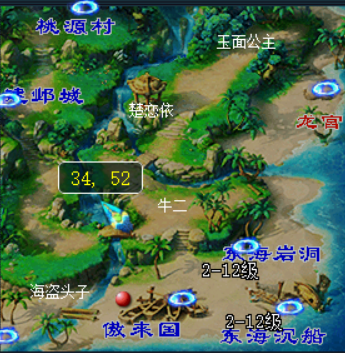
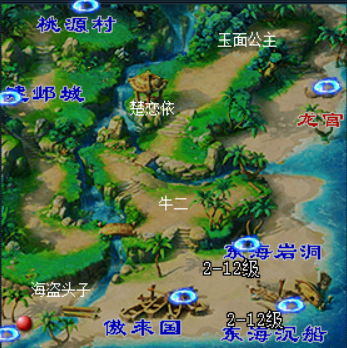
提交

diff --git a/myaux/command/Base.py b/myaux/command/Base.py
@@ -34,7 +34,7 @@ class myBase():
         currfiletpath = Path(os.path.abspath(__file__))
         self.currtpath=currfiletpath.parent
         self.mous=PyMouse()
-        self.ditu_size={"jianye":(287,142),"donghaiwan":(117,117)}
+        self.ditu_size={"jianye":(287,142),"donghaiwan":(119,119),"changancheng":(548,277),"jiangnanyewai":(159,119)}
         self.yunbiao_par=["牛魔王","观音姐姐","镇元大仙","孙婆婆","地藏王"]
         self.padocr = PaddleOCR(use_angle_cls=True, lang="ch")
         # 调用百度的识别文字
@@ -90,13 +90,15 @@ class myBase():
         pyautogui.press("F9")
         pyautogui.hotkey("alt", "h")
         time.sleep(1)
-    def get_pic_centerforaytogui(self,picfile,confidence=0.6):
+    def get_pic_centerforaytogui(self,picfile,confidence=0.7,is_npc=False):
         """
         根据基准图片获取操作对象位置
         :param picfile: 基准图片
         :param canel: 误差值
         :return: 对像坐标
         """
+        if is_npc:
+            self.clear_scene()
         picpath=self.get_pic_fullpath(picfile)
         grids=pyautogui.locateCenterOnScreen(picpath,confidence=confidence,region=self.parent_size,grayscale=True)
         return grids
@@ -108,59 +110,55 @@ class myBase():
         :return: 对像box
         """
         picpath=self.get_pic_fullpath(picfile)
+        print(picfile,picpath)
         bbox=pyautogui.locateOnScreen(picpath,confidence=confidence,region=self.parent_size,grayscale=True)
         return bbox
-    def get_allpic(self,picfile,confidence=0.6):
+    def get_allpic(self,picfile,confidence=0.6,index=None):
         """
         查找所有相似图片，返回bbox
         """
         picpath = self.get_pic_fullpath(picfile)
-        btm=pyautogui.locateAllOnScreen(picpath,confidence=confidence)
+        btm=pyautogui.locateAllOnScreen(picpath,confidence=confidence,region=self.parent_size,grayscale=True)
+        if index != None:
+            return list(btm)[index]
         return list(btm)
+    def get_interval(self,basic,length):
+        pt=length/3
+        end=basic+pt*2
+        start=basic
+        return range(int(start),int(end))
 
-    def dhclick(self,bbox,scenal=False,pfx=None):
-        gridx = self.get_num_center(bbox.left,bbox.left+bbox.width)
-        gridy = self.get_num_center(bbox.top,bbox.top+bbox.height)
+    def dhclick(self,grids,scenal=False):
+        gridx = grids.x
+        gridy = grids.y
         if scenal:
             if abs(self.dows_center[0] - gridx) < 100:
                 gridx = gridx + 100
             else:
                 gridx=self.get_num_center(gridx,self.dows_center[0])
             gridy = self.get_num_center(gridy, self.dows_center[1])
-        else:
-            gridx = random.choice(range(bbox.left,bbox.left+bbox.width))
-            gridy = random.choice(range(bbox.top,bbox.top+bbox.height))
-        if pfx == "left":
-            gridx-=10
-        elif pfx == "right":
-            gridx+=10
-        elif pfx == "top":
-            gridy -= 10
-        elif pfx == "bom":
-            gridy += 10
-        else:
-            gridx -= 5
-        print("scenal:%s %s ===>> (%s,%s)" % (scenal,bbox,gridx,gridy))
-        pyautogui.moveTo(gridx,gridy)
-        #print(gridx,gridy)
-        #self.mous.move(int(gridx),int(gridy))
+        pyautogui.moveTo(gridx-5,gridy-10)
         time.sleep(1)
         pyautogui.click()
-        #self.mous.click(int(gridx),int(gridy-8),1,1)
         time.sleep(1)
-    def getpic_click(self,picfile,checkfile=None,confidence=0.5,pfx=None):
+    def getpic_click(self,picfile,checkfile=None,confidence=0.7,is_npc=False,check_tag=True):
         if checkfile:
-            while not self.get_pic_centerforaytogui(checkfile):
-                self.clear_scene()
-                bbox=self.get_pic_bbox(picfile,confidence=confidence)
-                if bbox:
-                    self.dhclick(bbox,pfx=pfx)
-                if not self.get_pic_centerforaytogui(checkfile):
-                    self.dhclick(bbox,scenal=True, pfx=pfx)
-
+            if check_tag:
+                while not self.get_pic_centerforaytogui(checkfile):
+                    grids=self.get_pic_centerforaytogui(picfile,confidence=confidence,is_npc=is_npc)
+                    if grids:
+                        self.dhclick(grids)
+                        if not self.get_pic_centerforaytogui(checkfile):
+                            self.dhclick(grids,scenal=True)
+            else:
+                while self.get_pic_centerforaytogui(checkfile):
+                    grids = self.get_pic_centerforaytogui(picfile, confidence=confidence,is_npc=is_npc)
+                    if grids:
+                        self.dhclick(grids)
         else:
-            bbox=self.get_pic_bbox(picfile)
-            self.dhclick(bbox,pfx=pfx)
+            grids=self.get_pic_centerforaytogui(picfile,confidence=confidence,is_npc=is_npc)
+            if grids:
+                self.dhclick(grids)
     def calsimilar(self,imagef1,imagef2):
         """
         图片相似度对比
@@ -184,11 +182,7 @@ class myBase():
     # 百度OCR接口
     def get_pic_text(self,picfile):
         result=self.duqu_yemian(picfile)
-        return str(result)
-        #with open(picfile, 'rb') as fp:
-            #bimg = fp.read()
-            #msg = self.client.basicGeneral(bimg)
-            #return msg
+        return result
     # 获取当前声景
     def get_scene(self):
         tmpfilename=self.get_filename("scene")
@@ -196,10 +190,11 @@ class myBase():
         img=io.imread(tmpfilename,as_gray=False)
         print(img.shape)
         rows,cols,_= img.shape
-        new = img[rows // 15:rows // 7, 0:cols // 6]
+        new = img[rows // 15:rows // 6, 0:cols // 6]
         io.imsave(tmpfilename,new)
-        #io.show()
-        return self.get_pic_text(tmpfilename)
+        scene_text=self.duqu_yemian(tmpfilename)
+        print("当前场景信息：%s" % scene_text[-1])
+        return scene_text[-1]
     # 通过百度接品获取定位
     def get_pointpic_bybaidu(self):
         tmpfilename = self.get_filename("pointpic")
@@ -224,7 +219,7 @@ class myBase():
         if myfile.is_file():
             picpath=pocname
         else:
-            picdir=pocname.strip("123456789")+"pic"
+            picdir=pocname.strip("0123456789")+"pic"
             picpath=os.path.join(self.currtpath,"pic",picdir,pocname+".png")
         return picpath
     def get_pic_foraircv(self, picfile, confidence=0.6):
@@ -244,11 +239,17 @@ class myBase():
     def shear_pic(self,picfile):
         rec,snapshot_pic=self.get_pic_foraircv(picfile)
         bbox=rec[0]+rec[-1]
-        im1=Image.open(snapshot_pic)
+        return self.bbox_pic(bbox,snapshot_pic)
+    def bbox_pic(self,bbox,source_image=None):
+        if source_image == None:
+            source_image=self.get_snapshot()
+        #im_box=(bbox.left,bbox.top,bbox.left+bbox.width,bbox.top+bbox.height)
+        im1=Image.open(source_image)
         im2=im1.crop(bbox)
-        temfile=self.get_filename("renwutmp")
+        temfile = self.get_filename("renwutmp")
         im2.save(temfile)
         return temfile
+
     # 场景与PC的缩方比例
     def get_pixel_rate(self,sec,bbox):
         max_grid=self.ditu_size.get(sec)
@@ -278,14 +279,12 @@ class myBase():
         minix=bbox[0]
         maxy=bbox[-1]
         grids=(minix+int(x*xt),maxy-int(y*yt))
-        print(bbox)
-        print(grids)
         pyautogui.moveTo(grids)
-        time.sleep(2)
+        time.sleep(1)
         print(pyautogui.position())
-        #while not self.get_pic_centerforaircv("checkdt2.png",confidence=0.5):
-
         pyautogui.click()
+        time.sleep(1)
+        pyautogui.press("tab")
     # 使用物品
     def shiyongwupin(self,wupinpic):
         while not self.get_pic_centerforaytogui(wupinpic,confidence=0.8):

diff --git a/myaux/command/scene_yd.py b/myaux/command/scene_yd.py
@@ -1,0 +1,112 @@
+#coding=utf-8
+
+from .Base import *
+import pyautogui
+import os,time
+pyautogui.PAUSE=1
+
+class scene_yd(myBase):
+    def __init__(self,hwndkey):
+        super(scene_yd, self).__init__(hwndkey)
+        self.luxian_dic={
+            "changancheng_jiangnanyewai":{
+                "source_add":"长安城",
+                "target_add":"江南野外",
+                "pic_name":"changancheng",
+                "check_name":"changancheng1",
+                "yidongproint":[520,20],
+                "yidongfx":[300,300]
+            },
+            "jiangnanyewai_jianyecheng": {
+                "source_add": "江南野外",
+                "target_add": "建邺城",
+                "pic_name": "jiangnanyewai",
+                "check_name": "jiangnanyewai1",
+                "yidongproint": [137, 55],
+                "yidongfx": [300, 70]
+            },
+            "jianyecheng_donghaiwan": {
+                "source_add": "建邺城",
+                "target_add": "东海湾",
+                "pic_name": "jianye",
+                "check_name": "jianye1",
+                "yidongproint": [266, 30],
+                "dingdian_canzhao": True
+            },
+            "donghaiwan_aolaiguo": {
+                "source_add": "东海湾",
+                "target_add": "傲来国",
+                "pic_name": "donghaiwan",
+                "check_name": "donghaiwan1",
+                "yidongproint": [51, 20],
+                "is_yizhan": True
+            },
+        }
+    def changjingforyizhan(self,target_add):
+        print("进入驿站操作*******")
+        while target_add not in self.get_scene():
+            print("还没到目的地，继续努力")
+            while not self.get_pic_centerforaytogui("yizhan61", confidence=0.8):
+                print("没有找到驿站对话图片，开始点击传送人")
+                self.clear_scene()
+                for k in range(6):
+                    pic_name="yizhan%s" % k
+                    grids = self.get_pic_centerforaytogui(pic_name,confidence=0.8)
+                    if grids:
+                        print("%s找到传送人位置" % pic_name)
+                        self.dhclick(grids)
+                        if not self.get_pic_centerforaytogui("yizhan61", confidence=0.8):
+                            self.dhclick(grids,scenal=True)
+                        break
+                    else:
+                        print("没找到%s" % pic_name)
+            self.getpic_click("yizhan71",checkfile="yizhan61",confidence=0.9,check_tag=False)
+
+    def changjingfordingdian(self,target_add,check_name):
+        while target_add not in self.get_scene():
+            self.getpic_click(check_name)
+    def changjingforfx(self,target_add,proint):
+        px, py = proint
+        while target_add not in self.get_scene():
+            self.clear_scene()
+            self.yidongfx(px, py)
+            time.sleep(1)
+    def kuachengyundong(self,kuacheng_name):
+        kuacheng_dic=self.luxian_dic.get(kuacheng_name)
+        if not kuacheng_dic:
+            print("没有路线为%s的线跑，请核查.")
+            return
+        source_add=kuacheng_dic.get("source_add")
+        target_add = kuacheng_dic.get("target_add")
+        pic_name = kuacheng_dic.get("pic_name")
+        check_name = kuacheng_dic.get("check_name")
+        yidongproint = kuacheng_dic.get("yidongproint")
+        is_yizhan=kuacheng_dic.get("is_yizhan")
+        scene=self.get_scene()
+        if source_add not in scene:
+            print("当前场景不是%s" % source_add)
+            return
+        tag=scene.split(source_add)[-1]
+        while True:
+            new_tag=self.get_scene().split(source_add)[-1]
+            if new_tag == tag:
+                if not self.get_pic_centerforaytogui(check_name,is_npc=True):
+                    px,py=yidongproint
+                    self.positioning(pic_name, px, py)
+                else:
+                    break
+            else:
+                tag=new_tag
+                time.sleep(2)
+        if is_yizhan:
+            self.changjingforyizhan(target_add)
+        elif kuacheng_dic.get("dingdian_canzhao") != None:
+            self.changjingfordingdian(target_add,check_name)
+        else:
+            proint=kuacheng_dic.get("yidongfx")
+            if proint == None:
+                print("请设置一个有效的入场方式.")
+                return
+            else:
+                self.changjingforfx(target_add,proint)
+        return True

diff --git a/myaux/command/myyabiao.py b/myaux/command/myyabiao.py
@@ -32,9 +32,13 @@ class yabiao(myBase):
         #    self.getpic_click("zhonga1",confidence=0.7)
         self.getpic_click("biaoqi3",checkfile="biaoqi4",confidence=0.7)
         while not self.get_pic_centerforaytogui("biaoqi6"):
-            btm = self.get_allpic('biaoqi5',confidence=0.6)
-            self.dhclick(btm[-2])
-        self.getpic_click("biaoqi7",confidence=0.9,pfx="bom")
+            print(666)
+            btm = self.get_allpic('biaoqi5',confidence=0.8)
+            self.dhclick(btm[-1])
+            bbox=btm[-2]
+            im_box=(bbox.left,bbox.top,bbox.left+bbox.width,bbox.top+bbox.height)
+            print(self.bbox_pic(im_box))
+        self.getpic_click("biaoqi7",confidence=0.8,pfx="bom")
         #self.getpic_click("biaoqi5", checkfile="biaoqi6", confidence=0.8)
 
 

diff --git a/myaux/myaux_test.py b/myaux/myaux_test.py
@@ -5,6 +5,7 @@ from command.Base import *
 from command.myyabiao import *
 import pyautogui
 import time
+from command.scene_yd import *
 
 
 
@@ -16,7 +17,12 @@ if __name__=="__main__":
     print()
     for key in my_hwnds.keys():
         print(my_hwnds.get(key))
-        hwndyabiao=yabiao(int(key))
+        #hwndyabiao=yabiao(int(key))
         #hwndyabiao.get_scene()
-        hwndyabiao.qubiao()
+        #hwndyabiao.qubiao()
         #print(biaodi)
+        yd=scene_yd(int(key))
+        #yd.changan_jiangnan()
+        #yd.jiangnan_jianye()
+        #yd.jianye_donghaiwan()
+        yd.kuachengyundong("donghaiwan_aolaiguo")

diff --git a/code_up/xltest.py b/code_up/xltest.py
@@ -5,21 +5,13 @@ Created on 2016年10月14日
 @author: pc
 '''
 from pymouse import PyMouse
-def single_click(m,x,y,but=1,n=1):
-    for i in range(1):
-        m.press(x,y,button=but)
-        #m.release(x,y,button=but)
 
 
-import pyautogui
-
-pyautogui.moveTo((200,200))
-
-pyautogui.hotkey("alt","c")
 
     
 if __name__=="__main__":
-    #m=PyMouse()
+    m=PyMouse()
     #m.move(30,230)
-    #m.click(30,230,1,1)
-    pass
+    #m.click(30,230,1)
+    m.click(30, 230, 1,100000000)
+

diff --git a/myaux/command/mypaoshang.py b/myaux/command/mypaoshang.py
@@ -1,0 +1,10 @@
+#coding=utf-8
+
+from .Base import *
+import pyautogui
+import os
+pyautogui.PAUSE=1
+
+class paoshang(myBase):
+    def __init__(self,hwndkey):
+        super(paoshang, self).__init__(hwndkey)
